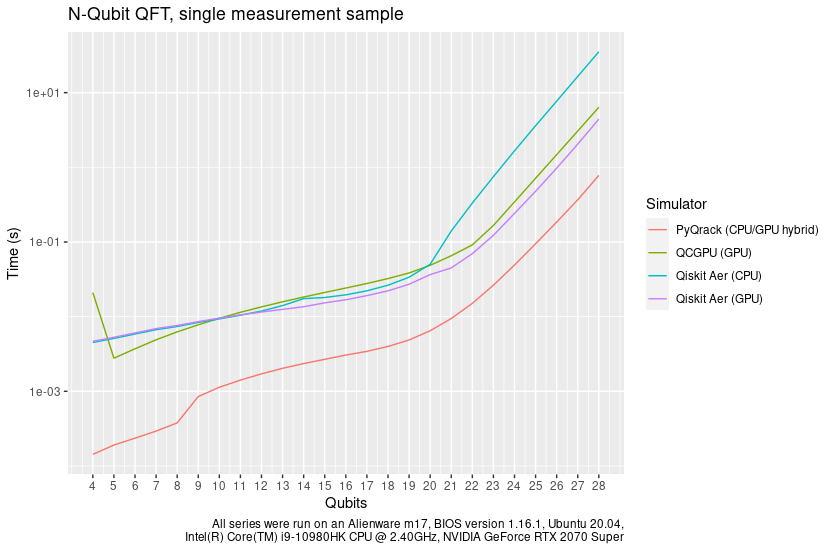
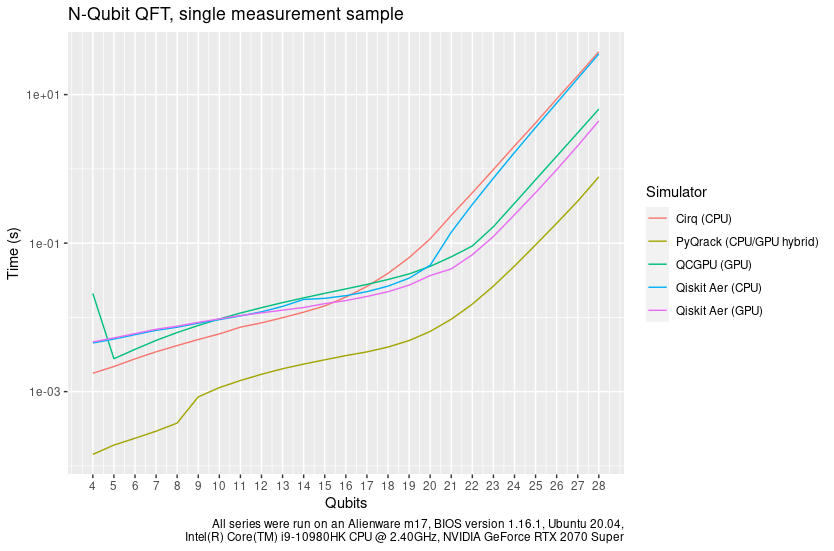
Add Cirq (CPU) to graph

diff --git a/posts/qrack_joins_uf.html b/posts/qrack_joins_uf.html
@@ -82,7 +82,7 @@
                                 <p><a href="https://qrack.net">Given Qrack’s support for Wasm</a>, we’ve joked at the Unitary Fund that Qrack can theoretically run on literal <a href="https://deviceatlas.com/blog/which-devices-have-browsers">internet-of-things enabled smart refrigerators</a>, but <a href="https://github.com/unitaryfund/qrack/issues/">open an issue ticket on the repository</a> if we’re blowing smoke and you still need developer support for your smart fridge, seriously!</p>
                                 <p style="font-weight: bold"><strong>QFT Benchmark</strong></p>
                                 <p>A standard example of Qrack (and PyQrack) performance is the quantum Fourier transform (QFT). Comparative results from benchmarking are in the graph below and are <a href="https://metriq.info/Task/64">available on Metriq</a> (as single-valued exponential trendline slope comparisons). Historically, Qrack measures this benchmark with an initialization by random 3-parameter unitary single qubit gates across the register width for a fair comparison, because Qrack QFT performance on computational basis states is classically efficient because of the underlying Schmidt decomposition. That wouldn’t be representative of general demands for cases of the QFT. While Qrack would perform worse for a random fully entangled case, our choice of randomly initialized separable qubits generally become fully entangled by the end of the circuit, paying a representative performance penalty for potentially “composing” every initially separable qubit. Hence this has historically been deemed a “fair” benchmark by the Qrack team.<p>
-                                <p>PyQrack has a commanding performance lead on this benchmark compared to other popular quantum computer simulators like Qiskit Aer (GPU) and QCGPU, where these three candidates are GPU-based simulators. Qiskit Aer (CPU) has been included on the chart, run on the same stock gaming laptop as the three GPU simulators, but remember that these software benchmarks are most fairly compared on identical hardware, whereas it isn’t possible for a CPU model and a GPU model to be the exact same hardware instance, obviously. However, PyQrack’s “hybrid CPU/GPU” methods utilize CPU simulation at the low qubit width end of the trend, which should be a fair comparison against Qiskit Aer (CPU) until the user-selectable GPU switching threshold, which is 9 qubits in this case.</p>
+                                <p>PyQrack has a commanding performance lead on this benchmark compared to other popular quantum computer simulators like Qiskit Aer (GPU) and QCGPU, where these three candidates are GPU-based simulators. Qiskit Aer (CPU) and Cirq (CPU) have been included on the chart, run on the same stock gaming laptop as the three GPU simulators, but remember that these software benchmarks are most fairly compared on identical hardware, whereas it isn’t possible for a CPU model and a GPU model to be the exact same hardware instance, obviously. However, PyQrack’s “hybrid CPU/GPU” methods utilize CPU simulation at the low qubit width end of the trend, which should be a fair comparison against CPU simulators until the user-selectable GPU switching threshold, which is 9 qubits in this case.</p>
                                 <p style="font-weight: bold"><strong>Qrack Architecture</strong></p>
                                 <p>Qrack is a collection of stacking and interchangeable optimization “layers,” which include OpenCL-based, scalable multi-device GPU, CPU, and GPU/CPU “hybrid” state vector simulation at base, “hybrid stabilizer” simulation with full and transparent recourse to state vector representation as fallback, an auxiliary “quantum binary decision tree” layer, and Schmidt decomposition techniques layered over stabilizer and state vector simulation for proactively and reactively identifying separable “cuts” in qubit subsystem representations to reduce memory footprint and improve execution speed. Floating point precision options available from source build include half, float, and double, with even limited support for quad math. By design, most users don’t need to worry about complicated custom configuration of the layers and settings at all; just instantiate a default C++11 “QInterface” or Python “QrackSimulator” class and go! The highly-optimized default layer stack will automatically leverage hybrid stabilizer simulation for a Clifford circuit or preamble, for example.</p>
                                 <p><img src="../images/qrack_qft_full_width.png"/><p>
